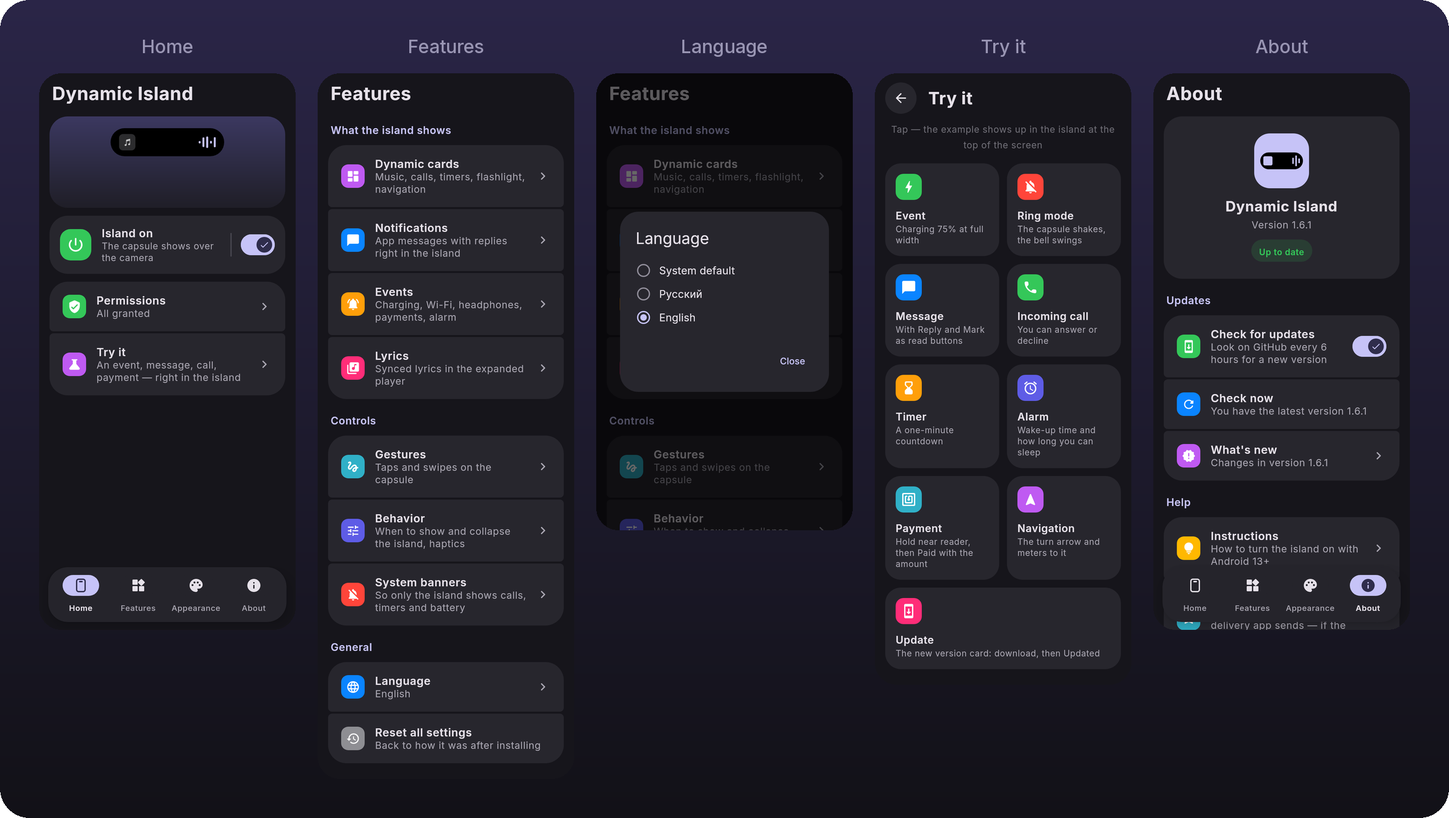
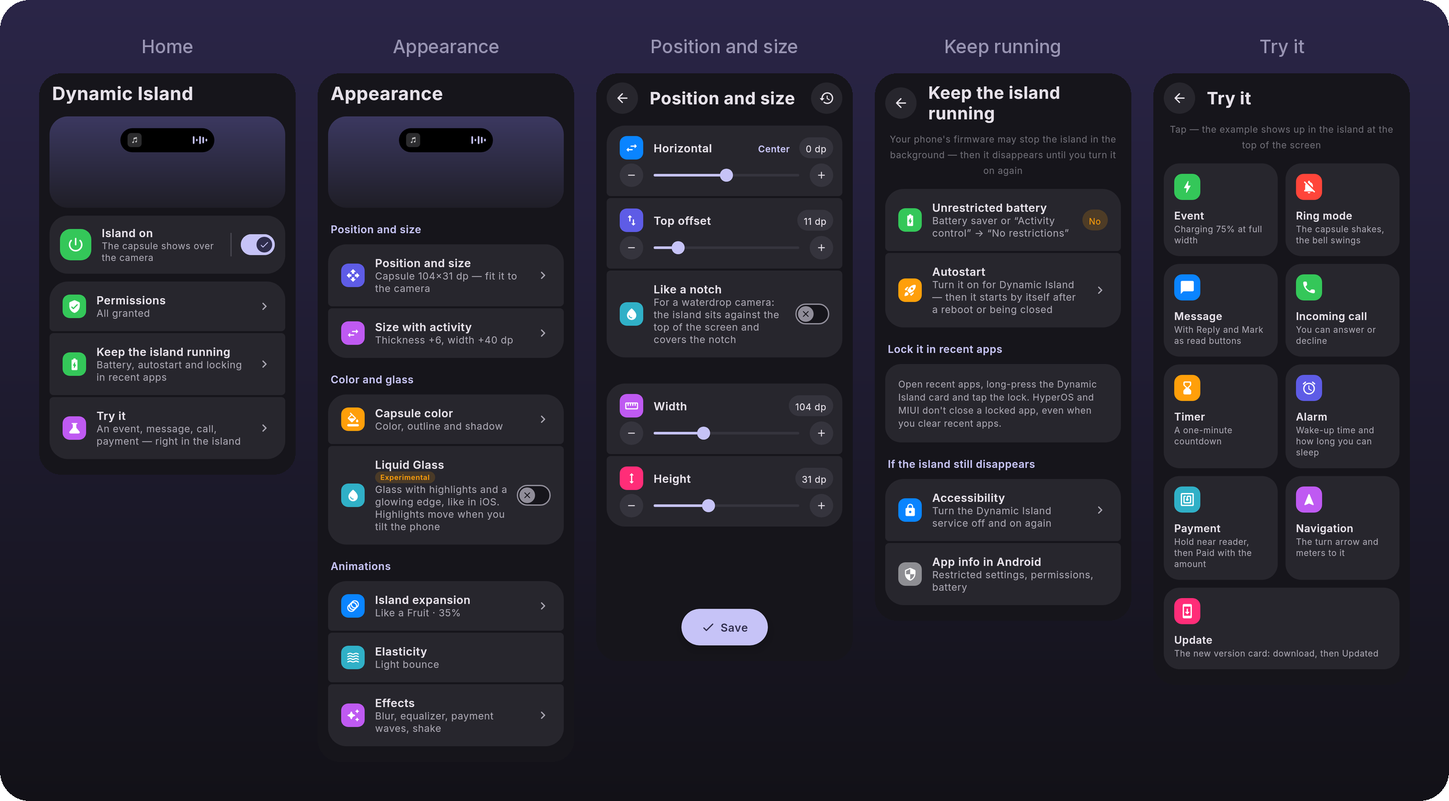
1.6.2: проверка обновлений раз в 3 часа, короткое «что нового», новая картинка приложения
- Новые версии ищутся на GitHub раз в 3 часа вместо 6.
- CHANGELOG 1.6.2 (из него — описание релиза) и раздел README — коротким списком.
- docs/app.png и app.en.png: главная с «Чтобы остров не закрывался»,
  «Оформление» с «Упругостью», «Положение и размер», «Работа в фоне» и «Проверка».

Claude-Session: https://claude.ai/code/session_01GVyzU1CpDnbhtniLPzT7eW

diff --git a/app/src/main/java/com/akira/island/update/UpdateChecker.kt b/app/src/main/java/com/akira/island/update/UpdateChecker.kt
@@ -62,12 +62,12 @@ sealed interface DownloadState {
  */
 object UpdateChecker {
     const val REPO = "Akira9021/Dynamic-Island-"
-    private const val CHECK_EVERY_MS = 6 * 60 * 60 * 1000L
+    private const val CHECK_EVERY_MS = 3 * 60 * 60 * 1000L
 
     val state = MutableStateFlow<UpdateState>(UpdateState.Idle)
     val download = MutableStateFlow<DownloadState>(DownloadState.Idle)
 
-    /** О какой версии остров уже сообщил плашкой — чтобы не повторять каждые 6 часов */
+    /** О какой версии остров уже сообщил плашкой — чтобы не повторять каждые 3 часа */
     private var announced: String? = null
 
     fun currentVersion(context: Context): String = runCatching {
@@ -76,7 +76,7 @@ object UpdateChecker {
 
     /**
      * [force] — проверка по кнопке: показывает «последняя версия» и ошибки связи.
-     * Фоновая раз в 6 часов молчит, если сети нет или версия, от которой отказались, не изменилась.
+     * Фоновая раз в 3 часа молчит, если сети нет или версия, от которой отказались, не изменилась.
      * [announce] — проверка из службы острова: о новой версии сообщает плашка на острове
      * (нажатие открывает приложение с кнопкой «Обновить»).
      */
@@ -87,7 +87,7 @@ object UpdateChecker {
         if (state.value is UpdateState.Checking) return
         state.value = UpdateState.Checking
         val result = runCatching { withContext(Dispatchers.IO) { fetchLatest() } }
-        // Без связи проверка не считается: повторим при следующей возможности, а не через 6 часов
+        // Без связи проверка не считается: повторим при следующей возможности, а не через 3 часа
         if (result.isSuccess) SettingsRepo.update { copy(lastUpdateCheck = now) }
         val release = result.getOrNull()
         state.value = when {

diff --git a/app/src/main/java/com/akira/island/service/IslandService.kt b/app/src/main/java/com/akira/island/service/IslandService.kt
@@ -201,7 +201,7 @@ class IslandService : AccessibilityService() {
         // Телефон заблокировали — отвечать с экрана блокировки нельзя
         scope.launch { IslandBus.locked.collect { if (it) IslandBus.reply.value = null } }
 
-        // Новая версия на GitHub: проверка сама ограничена разом в 6 часов, здесь только будим её
+        // Новая версия на GitHub: проверка сама ограничена разом в 3 часа, здесь только будим её
         scope.launch {
             while (isActive) {
                 if (IslandBus.screenOn.value) UpdateChecker.check(this@IslandService, force = false, announce = true)

diff --git a/app/src/main/java/com/akira/island/ui/screens/InfoScreens.kt b/app/src/main/java/com/akira/island/ui/screens/InfoScreens.kt
@@ -196,7 +196,7 @@ fun AppInfoScreen(open: (Screen) -> Unit) {
         SectionHeader(tr("Обновления", "Updates"))
         Group {
             GroupToggle(Pos.First, Icons.Rounded.SystemUpdate, tr("Искать обновления", "Check for updates"),
-                tr("Раз в 6 часов смотреть на GitHub, не вышла ли новая версия", "Look on GitHub every 6 hours for a new version"),
+                tr("Раз в 3 часа смотреть на GitHub, не вышла ли новая версия", "Look on GitHub every 3 hours for a new version"),
                 s.autoUpdateCheck, color = Tile.Green) { v ->
                 SettingsRepo.update { copy(autoUpdateCheck = v) }
             }

diff --git a/app/src/main/java/com/akira/island/ui/MainActivity.kt b/app/src/main/java/com/akira/island/ui/MainActivity.kt
@@ -121,7 +121,7 @@ private fun AppRoot() {
     }
     BackHandler(enabled = stack.isNotEmpty(), onBack = back)
 
-    // Раз в 6 часов спрашиваем GitHub, не вышла ли новая версия; после обновления — «Что нового»
+    // Раз в 3 часа спрашиваем GitHub, не вышла ли новая версия; после обновления — «Что нового»
     val context = LocalContext.current
     LaunchedEffect(Unit) { UpdateChecker.check(context.applicationContext, force = false) }
     // Сменили язык — экраны рисуются заново на нём, а открытая вкладка и экран остаются

diff --git a/README.md b/README.md
@@ -23,44 +23,37 @@
 
 ### [⬇ Скачать последнюю версию](https://github.com/Akira9021/Dynamic-Island-/releases/latest)
 
-[Что нового](#-что-нового-в-161) · [Возможности](#-возможности) · [Установка](#-установка) · [Жесты](#-жесты) · [Настройки](#-настройки) · [Как устроено](#-как-устроено)
+[Что нового](#-что-нового-в-162) · [Возможности](#-возможности) · [Установка](#-установка) · [Жесты](#-жесты) · [Настройки](#-настройки) · [Как устроено](#-как-устроено)
 
 </div>
 
 ---
 
-## ✨ Что нового в 1.6.1
+## ✨ Что нового в 1.6.2
 
-> [!NOTE]
-> **1.6.2:** остров по умолчанию меньше, а ширина и высота снова настраиваются; режим «Как вырез» для камеры-капли; мягче анимации; замок на экране блокировки; «Нравится» в плеере (Яндекс Музыка и др.); «Оплачено» появляется надёжнее; помощь с установкой и экран «Чтобы остров не закрывался». Подробно — в [CHANGELOG.md](CHANGELOG.md).
+- 📏 **Остров меньше**, ширина и высота снова настраиваются — «Оформление → Положение и размер»
+- 💧 **«Как вырез»** для камеры-капли
+- 🎬 **Мягче анимации**, «Упругость» прямо в «Оформлении»
+- 🔒 **Замок** на экране блокировки
+- 🎵 **«Нравится»** в плеере — Яндекс Музыка и др.
+- 💳 **«Оплачено» надёжнее** и «Диагностика оплаты»
+- 🛠 **«Чтобы остров не закрывался»** — на главной
+- ⬇ Обновления проверяются **раз в 3 часа**
 
 <div align="center">
-<img src="docs/preview-1.6.1.png" width="820" alt="Новое в 1.6.1: «Оплата · К терминалу», «Оплачено» с суммой, будильник и циферблат сна, «Отправлено», карточка новой версии с кнопками «Позже» и «Обновить», загрузка с процентами и «Обновлено до 1.6.1»">
+<img src="docs/app.png" width="820" alt="Приложение: «Главная» с пунктом «Чтобы остров не закрывался», «Оформление» с «Упругостью», «Положение и размер» с шириной, высотой и «Как вырез», «Работа в фоне» и «Проверка»">
 </div>
-
-| | |
-| --- | --- |
-| 🌍 **Английский язык** | Приложение и остров — по-русски или по-английски: «Функции → Общие → Язык». Переключается сразу, без перезапуска; по умолчанию — как в системе |
-| ⬇ **Обновление прямо в острове** | Вышла новая версия — карточка с «Позже» и «Обновить», пока качается — проценты и кольцо, после установки — «Обновлено» с «Что нового». Пример — в «Проверке» |
-| 🗂 **Приложение по-новому** | Четыре вкладки: «Главная», «Функции», «Оформление», «О приложении»; «Разрешения» одной строкой и «Проверка» — все примеры острова на одном экране |
-| 💳 **Оплата телефоном** | «Оплата · К терминалу» — только на экране оплаты телефоном (T-Pay, SberPay, Mir Pay, Яндекс Пэй, Google Кошелёк), держится, пока не заплатите; «Оплачено» с суммой — с экрана кошелька, из уведомления или СМС банка |
-| ⏱ **Таймер «Часов»** | Таймер и секундомер «Часов» в острове, даже если их уведомления выключены, — с паузой и сбросом |
-| 🌙 **Будильник** | За 12 часов до звонка — время подъёма и циферблат сна, как на iPhone |
-| 🔔 **Уведомления** | Плашка по меркам системной, «Ответить» прямо из острова, после отправки — «Отправлено ✓» |
-| ✨ **Эффекты и поведение** | Размытие, живой эквалайзер, вздрагивание, волны оплаты и свечение обложки — каждый отдельно; остров может сворачиваться сам |
-| 🔒 **Безопасность** | Новый ключ подписи хранится только в секретах GitHub; сборка без права записи; таймер в острове ставят только приложения с правом ставить будильники |
-| 🔋 **Батарея** | Пока экран погашен, остров не просыпается, анимации меньше нагружают процессор |
 
 > [!IMPORTANT]
-> С 1.6.1 у приложения новый ключ подписи. Если у вас стоит 1.6.0 или старше, один раз удалите старую версию и поставьте новую — дальше обновления снова ставятся поверх.
+> С 1.6.0 и старше один раз удалите старую версию: с 1.6.1 у приложения новый ключ подписи.
 
-<div align="center">
-<img src="docs/app.png" width="820" alt="Приложение: «Главная», «Функции» с разделом «Общие → Язык», выбор языка, «Проверка» со всеми примерами и «О приложении»">
-</div>
-
-Полный список изменений, в том числе 1.6.0, — в [CHANGELOG.md](CHANGELOG.md).
+Все изменения — в [CHANGELOG.md](CHANGELOG.md).
 
 ## 📱 Возможности
+
+<div align="center">
+<img src="docs/preview-1.6.1.png" width="820" alt="Остров: «Оплата · К терминалу», «Оплачено» с суммой, будильник и циферблат сна, «Отправлено», карточка новой версии, загрузка с процентами и «Обновлено»">
+</div>
 
 <table>
 <tr><th>Карточка</th><th>В капсуле</th><th>По нажатию</th></tr>
@@ -138,13 +131,13 @@
   - **Системные плашки** — быстрый переход к настройкам Android, где выключаются всплывающие плашки звонилки, «Часов» и батареи, чтобы эти события показывал только остров.
   - **Язык** — русский или английский, сразу для приложения и острова («Общие → Язык»).
 - **Оформление** — как выглядит остров:
-  - **Положение** — сдвиг по горизонтали и отступ сверху; капсула меняется на экране сразу.
+  - **Положение и размер** — сдвиг по горизонтали, отступ сверху, ширина, высота и «Как вырез»; капсула меняется на экране сразу.
   - **Размер с активностью** — насколько капсула с активностью толще и шире спокойной, с живым примером.
   - **Цвет капсулы** — цвет, контур (цвет, толщина, цвет из обложки) и тень.
   - **Liquid Glass** *(экспериментальный)* — стеклянный остров и карточки, плотность стекла.
   - **Раскрытие острова** — стиль («Как Фрукт» с эффектом желе, «Пружина», «Плавно», «Без анимации»), длительность, упругость, «Уменьшить эффекты».
   - **Эффекты** — размытие, живой эквалайзер, вздрагивание, волны оплаты, свечение обложки и экономия заряда.
-- **О приложении** — версия и обновления (автопроверка раз в 6 часов, «Проверить сейчас», «Что нового»), инструкция, диагностика навигации и «Страница GitHub» — ссылка сюда.
+- **О приложении** — версия и обновления (автопроверка раз в 3 часа, «Проверить сейчас», «Что нового»), инструкция, диагностика навигации и «Страница GitHub» — ссылка сюда.
 
 ## 🧩 Как устроено
 

diff --git a/README.en.md b/README.en.md
@@ -23,7 +23,7 @@ Notifications with reply · navigation · payments · music with lyrics · calls
 
 ### [⬇ Download the latest version](https://github.com/Akira9021/Dynamic-Island-/releases/latest)
 
-[What's new](#-whats-new-in-161) · [Features](#-features) · [Installation](#-installation) · [Gestures](#-gestures) · [Settings](#-settings) · [How it works](#-how-it-works)
+[What's new](#-whats-new-in-162) · [Features](#-features) · [Installation](#-installation) · [Gestures](#-gestures) · [Settings](#-settings) · [How it works](#-how-it-works)
 
 </div>
 
@@ -32,38 +32,31 @@ Notifications with reply · navigation · payments · music with lyrics · calls
 
 ---
 
-## ✨ What's new in 1.6.1
+## ✨ What's new in 1.6.2
 
-> [!NOTE]
-> **1.6.2:** a smaller island by default, with width and height adjustable again; Like a notch mode for waterdrop cameras; softer animations; a lock on the lock screen; Like in the player (Yandex Music and others); more reliable "Paid"; install help and a Keep the island running screen. Details — in [CHANGELOG.en.md](CHANGELOG.en.md).
+- 📏 **A smaller island**, with width and height adjustable again — Appearance → Position and size
+- 💧 **Like a notch** for waterdrop cameras
+- 🎬 **Softer animations**, Elasticity right on the Appearance tab
+- 🔒 **A lock** on the lock screen
+- 🎵 **Like** in the player — Yandex Music and others
+- 💳 **More reliable "Paid"** and Payment diagnostics
+- 🛠 **Keep the island running** — on Home
+- ⬇ Updates are checked **every 3 hours**
 
 <div align="center">
-<img src="docs/preview-1.6.1.en.png" width="820" alt="New in 1.6.1: Pay · Hold near reader, Paid with the amount, the alarm and the sleep dial, Sent, the new version card with Later and Update, downloading with percent and Updated to 1.6.1">
+<img src="docs/app.en.png" width="820" alt="The app: Home with Keep the island running, Appearance with Elasticity, Position and size with width, height and Like a notch, Keep running and Try it">
 </div>
-
-| | |
-| --- | --- |
-| 🌍 **English** | The app and the island in English or Russian: Features → General → Language. Switches right away, no restart; the default follows the system |
-| ⬇ **Updates right in the island** | A new version is out — a card with Later and Update, percent and a ring while it downloads, and Updated with What's new after installing. There's a demo in Try it |
-| 🗂 **The app, reorganized** | Four tabs: Home, Features, Appearance, About; Permissions in one row and Try it — every island demo on one screen |
-| 💳 **Pay with your phone** | "Pay · Hold near reader" only on a phone payment screen (T-Pay, SberPay, Mir Pay, Yandex Pay, Google Wallet), and it stays until you pay; "Paid" with the amount — from the wallet screen, a notification or a bank SMS |
-| ⏱ **Clock timer** | Clock's timer and stopwatch in the island even with Clock's notifications off — with pause and reset |
-| 🌙 **Alarm** | 12 hours before an alarm — the wake-up time and a sleep dial, like on iPhone |
-| 🔔 **Notifications** | The banner is sized like the system one, Reply works right from the island, and after sending you see "Sent ✓" |
-| ✨ **Effects and behavior** | Blur, live equalizer, shake, payment waves and the artwork glow — each one separately; the island can collapse by itself |
-| 🔒 **Security** | A new signing key kept only in GitHub secrets; the build runs without write access; only apps allowed to set alarms can start a timer in the island |
-| 🔋 **Battery** | While the screen is off the island doesn't wake up, and animations are lighter on the processor |
 
 > [!IMPORTANT]
-> Since 1.6.1 the app has a new signing key. If you have 1.6.0 or older, uninstall it once and install the new version — after that updates install over the top again.
+> Coming from 1.6.0 or older, uninstall the old version once: since 1.6.1 the app has a new signing key.
 
-<div align="center">
-<img src="docs/app.en.png" width="820" alt="The app: Home, Features with General → Language, the language picker, Try it with every demo, and About">
-</div>
-
-Full list of changes, including 1.6.0 — [CHANGELOG.en.md](CHANGELOG.en.md).
+All changes — in [CHANGELOG.en.md](CHANGELOG.en.md).
 
 ## 📱 Features
+
+<div align="center">
+<img src="docs/preview-1.6.1.en.png" width="820" alt="The island: Pay · Hold near reader, Paid with the amount, the alarm and sleep dial, Sent, the new version card, download with percent and Updated">
+</div>
 
 <table>
 <tr><th>Card</th><th>In the capsule</th><th>On tap</th></tr>
@@ -141,13 +134,13 @@ Four tabs:
   - **System banners** — shortcuts to the Android settings where you turn off the pop-ups of the dialer, Clock and battery, so only the island shows these events.
   - **Language** — English or Russian, for the app and the island at once (General → Language).
 - **Appearance** («Оформление») — how the island looks:
-  - **Position** — horizontal offset and top offset; the capsule updates on screen right away.
+  - **Position and size** — horizontal offset, top offset, width, height and Like a notch; the capsule updates on screen right away.
   - **Size with activity** — how much thicker and wider the capsule with an activity is than the idle one, with a live preview.
   - **Capsule color** — color, outline (color, thickness, color from artwork) and shadow.
   - **Liquid Glass** *(experimental)* — a glass island and cards, glass density.
   - **Island expansion** — style ("Like a Fruit" with a jelly effect, "Spring", "Smooth", "No animation"), duration, elasticity, Reduce effects.
   - **Effects** — blur, live equalizer, shake, payment waves, artwork glow and battery saving.
-- **About** («О приложении») — version and updates (an auto-check every 6 hours, Check now, What's new), instructions, navigation diagnostics and the GitHub page button («Страница GitHub») that leads here.
+- **About** («О приложении») — version and updates (an auto-check every 3 hours, Check now, What's new), instructions, navigation diagnostics and the GitHub page button («Страница GitHub») that leads here.
 
 ## 🧩 How it works
 

diff --git a/CHANGELOG.md b/CHANGELOG.md
@@ -6,31 +6,14 @@
 
 ## [1.6.2] — 2026-10-27
 
-### 📏 Размер острова
-- **Остров по умолчанию меньше**: 104×31 dp вместо 126×37, как у iPhone, — камера у Android меньше. Если размер не меняли, он сменится сам.
-- **Ширина и высота снова настраиваются**: «Оформление → Положение и размер». Пока экран открыт, остров красный — видно, как он ложится на камеру.
-- **«Размер с активностью»** виден сразу: пока двигаете толщину или ширину, в острове пример активности. Капсула с активностью по умолчанию на 40 dp шире пустой (было 48).
-- **Камера сбоку**: сдвиньте остров по горизонтали к камере — широкие плашки и раскрытый остров при этом не уезжают за край экрана, аватар в уведомлении остаётся виден.
-- **«Как вырез»** — для телефонов с камерой-каплей: остров прилегает к верхнему краю экрана, закрывает вырез и растёт из него вниз.
-
-### 🎬 Анимации
-- **Мягче по умолчанию**: слабая упругость вместо сильной — остров меньше «прыгает». Если упругость не меняли, она сменится сама.
-- **«Упругость»** теперь прямо в «Оформлении».
-
-### 🔒 Экран блокировки
-- **Замок в капсуле**, пока телефон заблокирован; после разблокировки он уходит. Выключается в «События → Замок на экране блокировки».
-
-### 🎵 Плеер
-- **«Нравится» и «Не нравится»** в раскрытом плеере, если плеер их даёт (Яндекс Музыка, YouTube Music и др.). Сердце красное, когда трек уже нравится.
-- Кнопки плеера ближе к полосе.
-
-### 💳 Оплата
-- **«Оплачено» появляется надёжнее**: по уведомлениям Google Кошелька, Samsung Wallet и Mir Pay, где только магазин и сумма; по сумме в уведомлении банка сразу после экрана оплаты; по экрану результата без минуса («Оплата прошла · 350 ₽»). Больше банков (Озон Банк и др.) и валют (₸, ₴, ₹, Rp, RM…).
-- **«О приложении → Диагностика оплаты»**: что остров увидел при оплате и как понял — если «Оплачено» не появилось. Записи только в памяти телефона.
-
-### 🛠 Установка и работа в фоне
-- **«Ограниченная настройка»** на Android 13+: на «Главной» пошаговая подсказка и кнопка «Открыть „О приложении“».
-- Новый экран **«Чтобы остров не закрывался»** (в «Разрешениях» и «О приложении»): батарея без ограничений, автозапуск (Xiaomi и HyperOS, Oppo, realme, OnePlus, vivo, Huawei, Honor, Infinix, Tecno, Asus) и как закрепить остров в недавних.
+- 📏 **Остров меньше** (104×31), ширина и высота снова настраиваются: «Оформление → Положение и размер».
+- 💧 **«Как вырез»** — для камеры-капли; сдвинутый вбок остров больше не уводит плашки за край экрана.
+- 🎬 **Мягче анимации**: слабая упругость по умолчанию, «Упругость» прямо в «Оформлении».
+- 🔒 **Замок** в капсуле на экране блокировки.
+- 🎵 **«Нравится» и «Не нравится»** в плеере — Яндекс Музыка и др.
+- 💳 **«Оплачено» надёжнее** (кошельки, экран «Оплата прошла», больше банков) и «Диагностика оплаты».
+- 🛠 **«Чтобы остров не закрывался»** на главной: батарея, автозапуск, закрепление в недавних; подсказка про «Ограниченную настройку».
+- ⬇ Новые версии проверяются **раз в 3 часа**.
 
 ## [1.6.1] — 2026-10-25
 

diff --git a/CHANGELOG.en.md b/CHANGELOG.en.md
@@ -8,31 +8,14 @@ Versioning: the second number (1.5, 1.6…) means new and changed features, the 
 
 ## [1.6.2] — 2026-10-27
 
-### 📏 Island size
-- **The island is smaller by default**: 104×31 dp instead of iPhone's 126×37 — Android cameras are smaller. If you haven't changed the size, it updates by itself.
-- **Width and height are adjustable again**: Appearance → Position and size («Оформление → Положение и размер»). While the screen is open, the island is red, so you can see how it sits on the camera.
-- **Size with activity** shows right away: while you drag thickness or width, the island shows an example activity. With an activity the capsule is now 40 dp wider than idle by default (was 48).
-- **Camera on the side**: move the island horizontally to the camera — wide banners and the expanded island no longer slide off the screen, and the avatar in a notification stays visible.
-- **Like a notch** («Как вырез») — for phones with a waterdrop camera: the island sits against the top edge of the screen, covers the notch and grows down from it.
-
-### 🎬 Animations
-- **Softer by default**: light bounce instead of strong — the island bounces less. If you haven't changed elasticity, it updates by itself.
-- **Elasticity** («Упругость») is now right on the Appearance tab.
-
-### 🔒 Lock screen
-- **A lock in the capsule** while the phone is locked; it goes away when you unlock. Turn it off in Events → Lock on the lock screen («События → Замок на экране блокировки»).
-
-### 🎵 Player
-- **Like and Dislike** in the expanded player if the player offers them (Yandex Music, YouTube Music and others). The heart turns red when the track is already liked.
-- The player buttons sit closer to the bar.
-
-### 💳 Payments
-- **"Paid" shows up more reliably**: from Google Wallet, Samsung Wallet and Mir Pay notifications with just the store and amount; from the amount in a bank notification right after the phone payment screen; from a result screen without a minus ("Payment successful · 350 ₽"). More banks and currencies (₸, ₴, ₹, Rp, RM…).
-- **About → Payment diagnostics** («О приложении → Диагностика оплаты»): what the island saw when you paid and how it understood it — if "Paid" didn't show. Entries stay only in the phone's memory.
-
-### 🛠 Installing and running in the background
-- **"Restricted setting"** on Android 13+: Home shows step-by-step help and an Open App info button.
-- New **Keep the island running** screen («Чтобы остров не закрывался», in Permissions and About): unrestricted battery, autostart (Xiaomi and HyperOS, Oppo, realme, OnePlus, vivo, Huawei, Honor, Infinix, Tecno, Asus) and how to lock the island in recent apps.
+- 📏 **A smaller island** (104×31), with width and height adjustable again: Appearance → Position and size.
+- 💧 **Like a notch** — for waterdrop cameras; an island moved sideways no longer pushes banners off the screen.
+- 🎬 **Softer animations**: light bounce by default, Elasticity right on the Appearance tab.
+- 🔒 **A lock** in the capsule on the lock screen.
+- 🎵 **Like and Dislike** in the player — Yandex Music and others.
+- 💳 **More reliable "Paid"** (wallets, the "Payment successful" screen, more banks) and Payment diagnostics.
+- 🛠 **Keep the island running** on Home: battery, autostart, locking in recent apps; help for "Restricted setting".
+- ⬇ New versions are checked **every 3 hours**.
 
 ## [1.6.1] — 2026-10-25
 

diff --git a/app/src/main/assets/whatsnew.md b/app/src/main/assets/whatsnew.md
@@ -16,5 +16,6 @@
 - Понимает уведомления Google Кошелька и Mir Pay, экран «Оплата прошла» и больше банков. Если не появилось — «О приложении» → **«Диагностика оплаты»**.
 
 ### 🛠 Чтобы остров не пропадал
-- «Разрешения» → **«Чтобы остров не закрывался»**: батарея, автозапуск и закрепление в недавних для Xiaomi, Oppo, Samsung и других.
+- На главной — **«Чтобы остров не закрывался»**: батарея, автозапуск и закрепление в недавних для Xiaomi, Oppo, Samsung и других.
 - Пошаговая подсказка, если Android пишет «Ограниченная настройка».
+- Новые версии проверяются раз в 3 часа.

diff --git a/app/src/main/assets/whatsnew.en.md b/app/src/main/assets/whatsnew.en.md
@@ -16,5 +16,6 @@
 - Understands Google Wallet and Mir Pay notifications, the "Payment successful" screen and more banks. If it didn't show — About → **Payment diagnostics**.
 
 ### 🛠 So the island doesn't disappear
-- Permissions → **Keep the island running**: battery, autostart and locking in recent apps for Xiaomi, Oppo, Samsung and others.
+- **Keep the island running** on Home: battery, autostart and locking in recent apps for Xiaomi, Oppo, Samsung and others.
 - Step-by-step help when Android says "Restricted setting".
+- New versions are checked every 3 hours.
